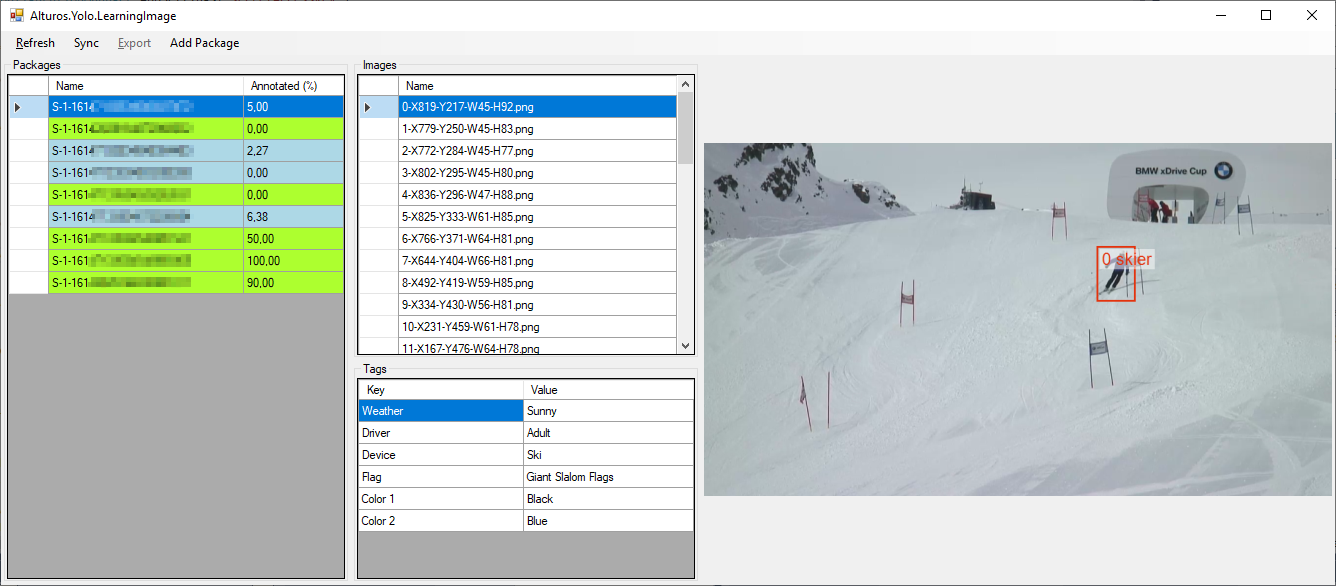
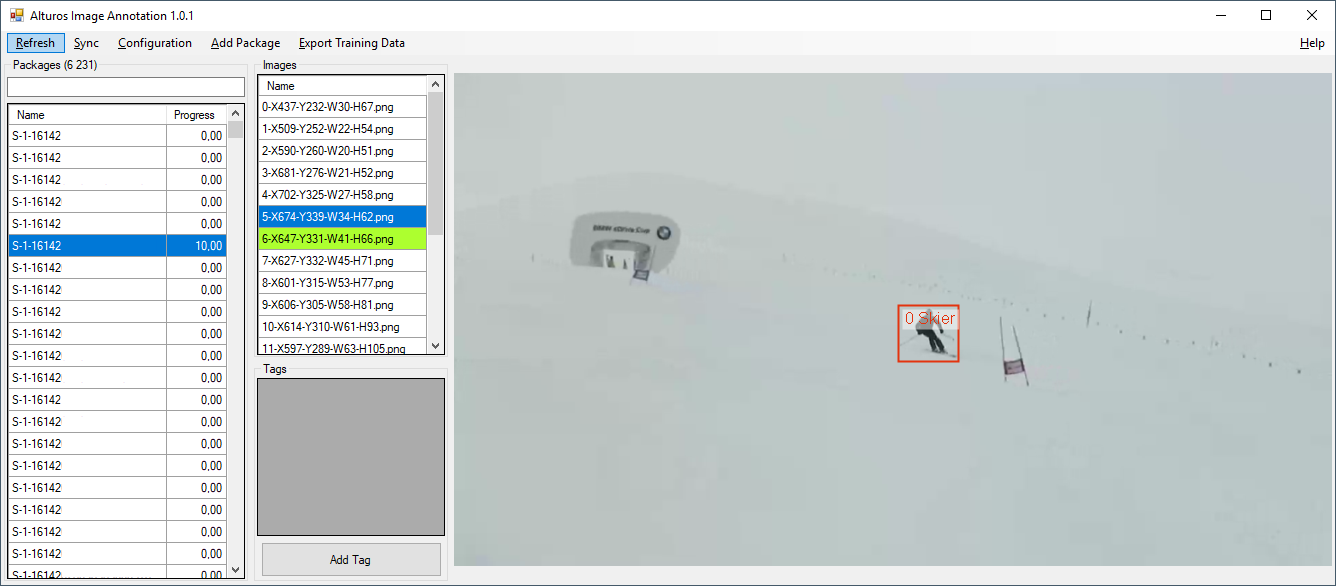
Update version, change screenshot

diff --git a/src/Alturos.ImageAnnotation/Main.designer.cs b/src/Alturos.ImageAnnotation/Main.designer.cs
@@ -256,7 +256,7 @@
             this.KeyPreview = true;
             this.MainMenuStrip = this.menuStripMain;
             this.Name = "Main";
-            this.Text = "Alturos Image Annotation";
+            this.Text = "change by code";
             this.FormClosing += new System.Windows.Forms.FormClosingEventHandler(this.Main_FormClosing);
             this.FormClosed += new System.Windows.Forms.FormClosedEventHandler(this.Main_FormClosed);
             this.Load += new System.EventHandler(this.Main_Load);

diff --git a/src/Alturos.ImageAnnotation/Properties/AssemblyInfo.cs b/src/Alturos.ImageAnnotation/Properties/AssemblyInfo.cs
@@ -31,5 +31,5 @@ using System.Runtime.InteropServices;
 // You can specify all the values or you can default the Build and Revision Numbers
 // by using the '*' as shown below:
 // [assembly: AssemblyVersion("1.0.*")]
-[assembly: AssemblyVersion("1.0.0.0")]
-[assembly: AssemblyFileVersion("1.0.0.0")]
+[assembly: AssemblyVersion("1.0.1")]
+[assembly: AssemblyFileVersion("1.0.1")]

diff --git a/src/Alturos.ImageAnnotation/Main.cs b/src/Alturos.ImageAnnotation/Main.cs
@@ -36,6 +36,7 @@ namespace Alturos.ImageAnnotation
             }
 
             this.InitializeComponent();
+            this.Text = $"Alturos Image Annotation {Application.ProductVersion}";
             this.downloadControl.Dock = DockStyle.Fill;
 
             this.annotationPackageListControl.Setup(this._annotationPackageProvider);
